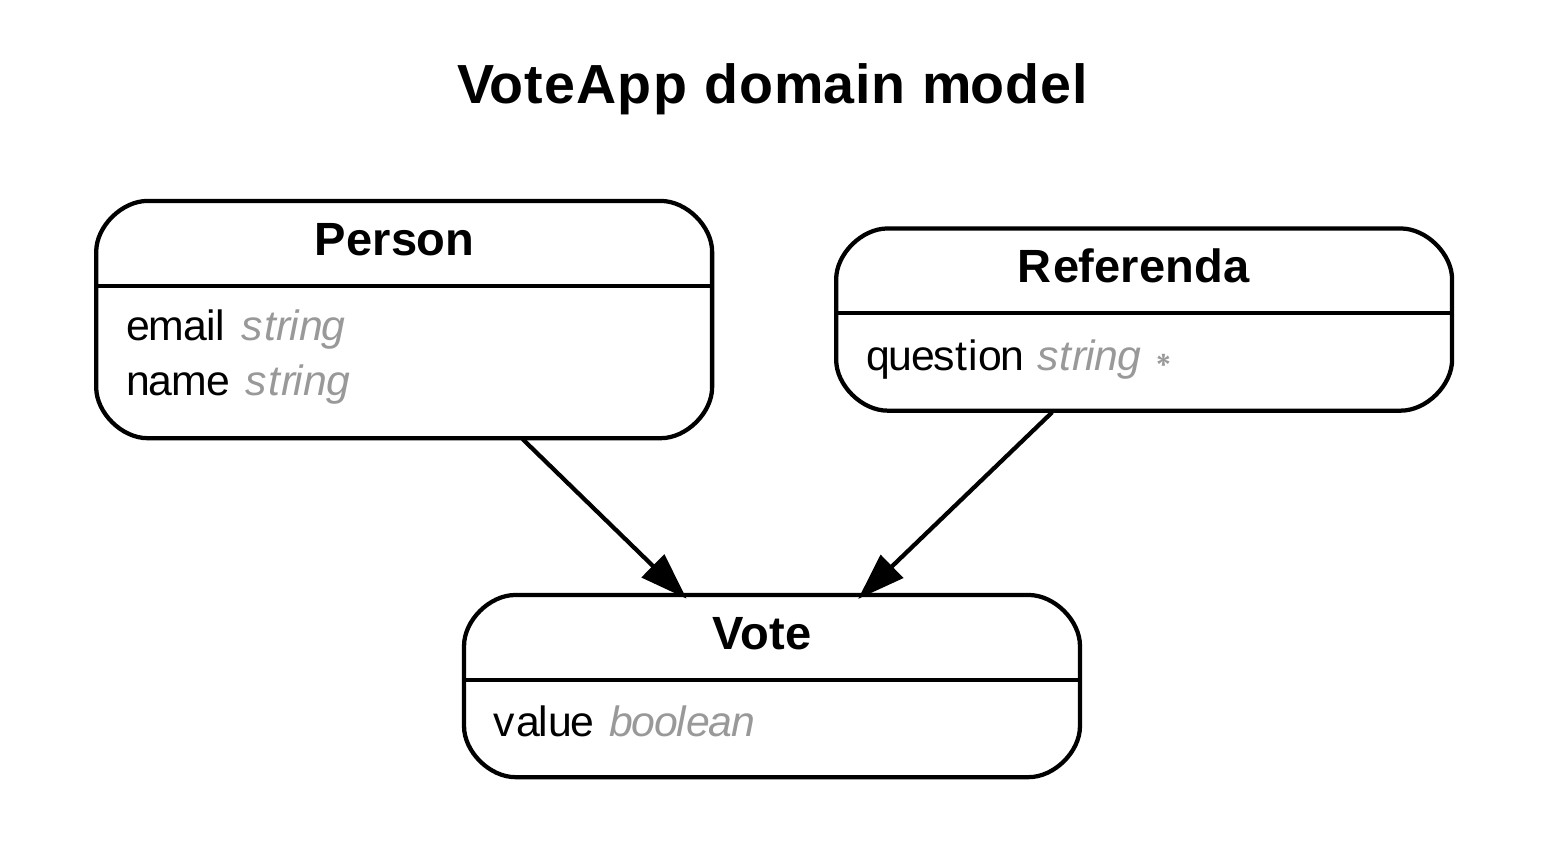
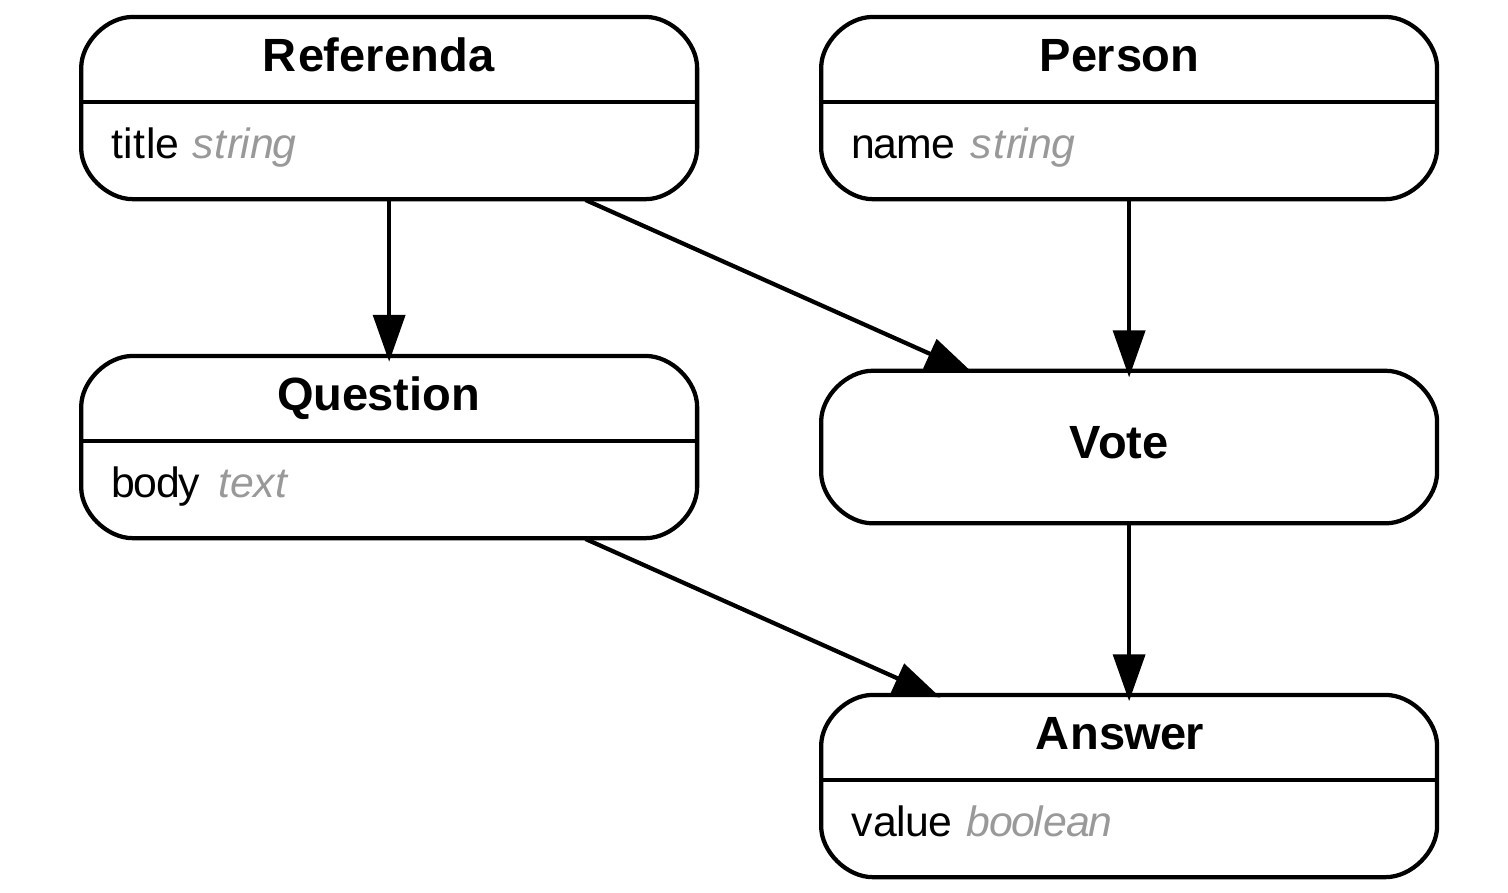
assignment

diff --git a/02git.md b/02git.md
@@ -1,0 +1,6 @@
+You can go to commit "m" and make the necessary changes. Then with --amend you can update this commit as "m' " (git hashes always change between commits because they are a calculation that git does).
+
+Then from n (which still points to m) you can rebase m', this way a commit "n' " will be generated out of "m' "
+
+As explained above, the hashes change regardless of whether there are new changes since it is a new commit with different parent.
+

diff --git a/03import_taxes.md b/03import_taxes.md
@@ -1,0 +1,3 @@
+When we use import, two operations are executed in our system: first, the invoked module is searched for - ___import___() - The value returned by that call is used when the binding is named.
+
+A bad practice when importing is to include the imports at the top levels of our classes, generating numerous dependencies that are generally not necessary when we only want to add small functionality via composition in our structure.

diff --git a/06css.md b/06css.md
@@ -1,0 +1,3 @@
+!important is used in CSS to override a property with the highlighted value. It is considered bad programming practice because it does not take into account the specificity of elements in CSS style sheets.
+
+!important can be used to be able to define styles in old browsers, since these (such as IE6) do not take into account the !important, so a style can be defined below for that rule and it will be taken into account.

diff --git a/01voting.md b/01voting.md
@@ -2,3 +2,26 @@
 
 ![Schema for voting app](/assets/schema.jpg)
 
+- Person
+  * name
+
+- Referenda
+  * title
+  - has_many :questions
+  - has_many :votes
+  - has_many :people, through :votes
+
+- Vote
+  - belongs_to :person
+  - belongs_to :referenda
+  - has_many :answers
+
+- Answer
+  * value
+  - belongs_to :question
+  - belongs_to :vote
+
+- Question
+  * body
+  - belongs_to :referenda
+  - has_many :answers

diff --git a/07javascript.md b/07javascript.md
@@ -1,0 +1,5 @@
+{value: 3, done: false}
+{value: 4, done: true}
+{value: undefined, done: true}
+
+It works that way because what is being defined is an iterator. The next method allows to find the next element of the iterator. The error occurs when the next value of the iterator does not exist.
